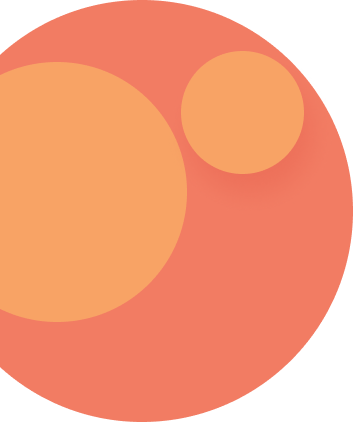
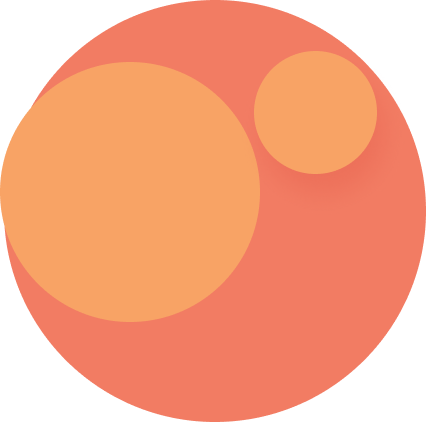
feat(Winners): ресайз фона

diff --git a/components/winners/Winners.scss b/components/winners/Winners.scss
@@ -1,21 +1,33 @@
 .winners {
   position: relative;
-  padding: 13px 0;
 
-  background-image: url("/images/winners/sphera.png");
-  background-repeat: no-repeat;
-  background-position: center center;
-
-  @include MOBILE{
-    background-image: url("/images/winners/mSphera.png");
-    background-repeat: no-repeat;
-    background-size: cover;
-    background-position: center center;
+  @include DESKTOP {
+    height: 1080px;
+    top: -150px;
   }
 
+  &__bg {
+    width: 90%;
+    @include option(height, 874px, 422px);
+    @include option(top, -35px, 0);
+    @include option(left, 127px, -69px);
+    position: absolute;
+    background-image: url("/images/winners/sphera.png");
+    background-repeat: no-repeat;
+    background-position: center center;
+    background-size: contain;
+
+
+    @include MOBILE {
+      width: 118%;
+      background-image: url("/images/winners/mSphera.png");
+    }
+  }
+
+
   &__carousel {
-    width: 100%;
-    @include option(margin, 61px auto 150px auto, -12px auto 130px auto);
+    @include option(top, 178px, 65px);
+    @include option(margin, 178px auto 150px auto, -12px auto 130px auto);
   }
 
   &__item {
@@ -47,7 +59,7 @@
 
     @include option(font-size, 20px, 17px);
     @include option(line-height, 24px);
-    @include option(margin, 35px 0 2px 0);
+    @include option(margin, 35px 0 2px 0, 16px 0 2px 0);
     color: #141D3A;
 
     flex: none;
@@ -78,7 +90,13 @@
 
   &__nav {
     @include option(width, 259px, 335px);
-    @include option(margin, 0 auto, -100px auto 0 auto);
+    @include option(top, 865px, 431px);
+
+    @include DESKTOP {
+      position: absolute;
+    }
+    left: 43%;
+    @include option(margin, 0 auto, -50px auto 0 auto);
 
     display: flex;
     justify-content: center;
@@ -88,7 +106,6 @@
     .swiper-button-disabled {
       opacity: 0.7;
     }
-
   }
 
   &__nav-el {
@@ -143,7 +160,7 @@
       margin: 0;
       position: absolute;
       left: 70%;
-      top: 980px;
+      top: 873.98px;
     }
   }
 

diff --git a/components/title/Title.scss b/components/title/Title.scss
@@ -15,14 +15,17 @@
 
   &-main {
     @include option(margin, 210px 0 0 0, 209px 0 0 0);
+    @include option(width, 767px, 324px);
+    @include option(height, 162px, auto);
   }
 
   &-winners {
-    @include option(margin, 120px 0 0 193px, 38px 0 0 13px);
+    position: absolute;
+    @include option(margin, 48px 0 0 193px, 16px 0 0 13px);
   }
 
   &-rules {
-    @include option(margin, 28px 0 0 198px, 17px 0 0 13px);
+    @include option(margin, 28px 0 0 198px, 94px 0 0 13px);
   }
 
   &-info {
@@ -41,7 +44,7 @@
   &-prizes {
     position: absolute;
     color: #FFFFFF;
-    @include option(margin,  51px 0 0 198px, 17px 0 0 13px);
+    @include option(margin, 51px 0 0 198px, 17px 0 0 13px);
 
     @include MOBILE {
       width: 324px;

diff --git a/components/winners/Winners.js b/components/winners/Winners.js
@@ -15,6 +15,7 @@ export function Winners({ list, title, iconNav, sign, icons }) {
   }
 
   return (<div className={"winners"}>
+    <div className={"winners__bg"}/>
     <Title title={title} className={"title-winners"} />
     <Carousel itemsData={list} item={WinnerItem} settings={{
       onSlideChange: (swiper) => {
@@ -25,7 +26,6 @@ export function Winners({ list, title, iconNav, sign, icons }) {
         320: {
           slidesPerView: 1.3,
           centeredSlides: true
-          // spaceBetween: 20
         },
         1024: {
           slidesPerView: 3

diff --git a/components/main/Main.scss b/components/main/Main.scss
@@ -2,8 +2,13 @@
   @include option(padding, 0 200px, 30px 16px);
 
   &__prize {
-    @include option(margin, 40px 0, 0);
-    @include option(width, 841.34px, 327.78px);
+    @include option(margin, 40px 0 40px -58px, 0);
+    width: 55%;
+    //@include option(width, 841.34px, 327.78px);
+
+    @include MOBILE {
+      width: 91%;
+    }
   }
 
   &__logo {
